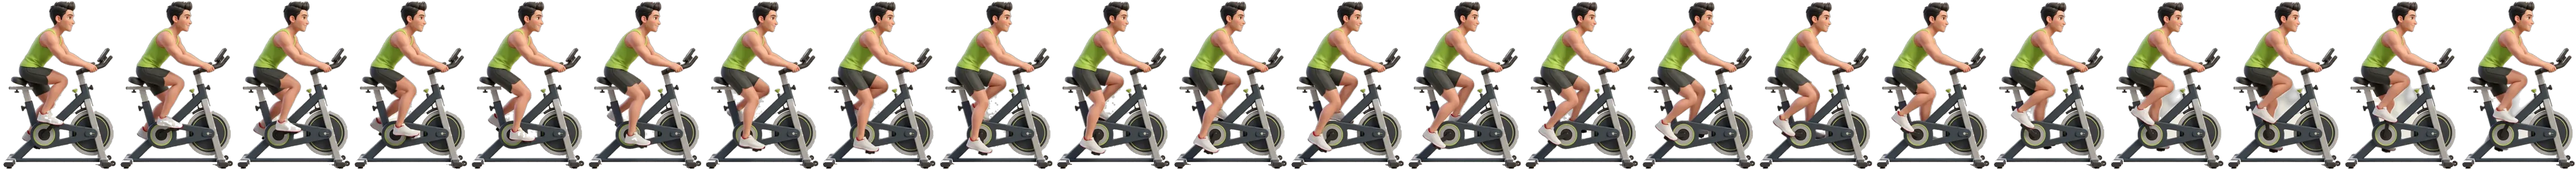
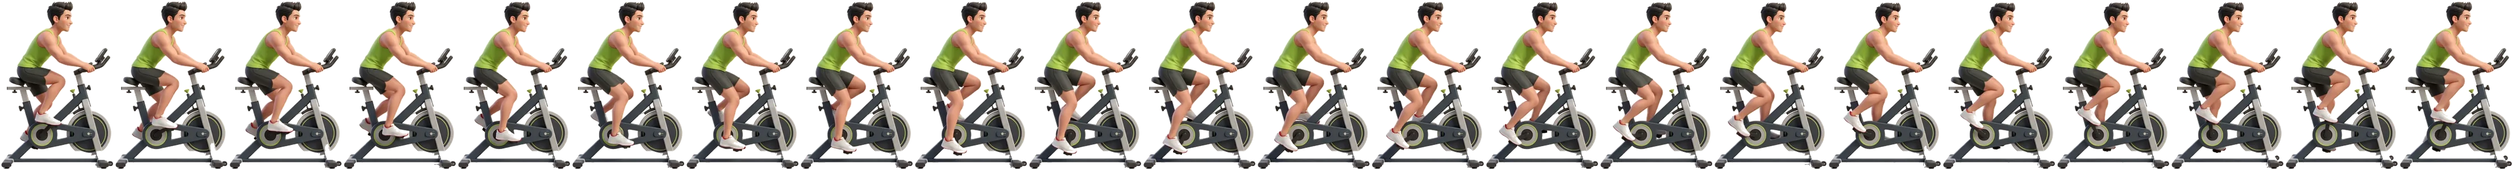
Prévia: recorte das animações com máquina refeito (tênis e partes do equipamento não somem mais, sem sombra clara no chão); corda um pouco menor (27 nov · 189)
Claude-Session: https://claude.ai/code/session_01HfZwp46Dr7mBJZgYWx7x8R

diff --git a/site/app-teste/index.html b/site/app-teste/index.html
@@ -1966,7 +1966,7 @@ const vibrate = p => { try { if(navigator.userActivation && !navigator.userActiv
 
 /* ---------- estado ---------- */
 const KEY = 'simpteste-aluno-pro-v2';
-const APPV = '27 nov · 188'; // muda a cada zip: confira no perfil se o site está com a versão nova
+const APPV = '27 nov · 189'; // muda a cada zip: confira no perfil se o site está com a versão nova
 function fresh(example){
   return { v:2, example:!!example, nome:'', ed:'hipertrofia', waterGoal:3000, cardioGoal:120, water:{}, wlog:{}, remind:{on:true,every:90},
     history:[], cardio:[], logs:{}, warm:{}, last:{}, loadHist:{}, pr:{}, checkin:{}, session:null };
@@ -5311,14 +5311,14 @@ const B3_S = {
     M:{w:220,h:300,D:20,g:297,vel:22.5,cxm:132.4,alt:172,bot:[297,297,297,296,296,296,295,289,287,291,294,295,295,295,294,294,293,287,287,294],cx:[130,131,132,131,134,136,134,132,132,132,134,136,133,136,135,133,131,128,128,128],arq:'rua-m'} } };
 /* esteira: a mesma corrida da rua, em cima da esteira parada (b3/esteira.webp, 216 px de largura na cena; a lona fica 27,6 px acima do piso e o meio dela a 97,7 px da ponta de trás) */
 /* pular corda (o "Outro" do app), de frente: a pessoa pula no lugar; só a sombra muda com a altura do pulo */
-B3_S.rope = { F:{w:161,h:300,D:24,g:297,alt:186,pulo:1,arq:'corda-f',bot:[283,281,282,285,290,297,297,297,297,297,297,289,283,282,282,284,290,297,297,297,297,297,297,289]},
-  M:{w:165,h:300,D:23,g:297,alt:192,pulo:1,arq:'corda-m',bot:[282,280,280,283,288,297,297,297,297,297,296,286,282,281,282,287,297,297,297,297,297,296,286]} };
+B3_S.rope = { F:{w:161,h:300,D:24,g:297,alt:168,pulo:1,arq:'corda-f',bot:[283,281,282,285,290,297,297,297,297,297,297,289,283,282,282,284,290,297,297,297,297,297,297,289]},
+  M:{w:165,h:300,D:23,g:297,alt:172,pulo:1,arq:'corda-m',bot:[282,280,280,283,288,297,297,297,297,297,296,286,282,281,282,287,297,297,297,297,297,296,286]} };
 /* escada: a máquina vem na folha junto com a pessoa; nada anda na cena e a sombra fica parada embaixo da máquina */
-B3_S.stair = { F:{w:227,h:300,D:32,g:297,alt:196,fixo:1,arq:'escada-f'}, M:{w:230,h:300,D:36,g:297,alt:196,fixo:1,arq:'escada-m'} };
+B3_S.stair = { F:{w:206,h:300,D:32,g:297,alt:196,fixo:1,arq:'escada-f'}, M:{w:207,h:300,D:36,g:297,alt:196,fixo:1,arq:'escada-m'} };
 /* bike: a bicicleta vem na folha junto com a pessoa, como na escada */
-B3_S.bike = { F:{w:205,h:300,D:22,g:297,alt:186,fixo:1,arq:'bike-f'}, M:{w:206,h:300,D:22,g:297,alt:186,fixo:1,arq:'bike-m'} };
+B3_S.bike = { F:{w:200,h:300,D:22,g:297,alt:186,fixo:1,arq:'bike-f'}, M:{w:201,h:300,D:22,g:297,alt:186,fixo:1,arq:'bike-m'} };
 /* elíptico: a máquina vem na folha junto com a pessoa (no vídeo da mulher a câmera deslizava de lado; o deslize foi desfeito quadro a quadro antes do recorte) */
-B3_S.ell = { F:{w:284,h:300,D:30,g:297,alt:176,fixo:1,arq:'eliptico-f'}, M:{w:283,h:300,D:36,g:297,alt:176,fixo:1,arq:'eliptico-m'} };
+B3_S.ell = { F:{w:279,h:300,D:30,g:297,alt:176,fixo:1,arq:'eliptico-f'}, M:{w:278,h:300,D:36,g:297,alt:176,fixo:1,arq:'eliptico-m'} };
 B3_S.tread = { F:Object.assign({}, B3_S.road.F, {est:1, alt:150}), M:Object.assign({}, B3_S.road.M, {est:1, alt:156}) };
 const B3_ARV = '<svg viewBox="0 0 105 96" aria-hidden="true"><rect x="20" y="52" width="5" height="44" fill="var(--b3-tronco)"/><circle cx="22" cy="40" r="19" fill="var(--b3-arv)"/><circle cx="34" cy="50" r="13" fill="var(--b3-arv)"/><circle cx="11" cy="52" r="11" fill="var(--b3-arv)"/><rect x="76" y="18" width="3.5" height="78" fill="var(--b3-poste)"/><rect x="76" y="18" width="16" height="3.5" rx="1.5" fill="var(--b3-poste)"/><rect x="88" y="20" width="8" height="5" rx="2.5" fill="var(--b3-faixa)"/></svg>';
 const B3 = { sx:'', el:null, M:null, s:1, k:1, ph:0, cx:179, raf:0, last:0, ro:null, p:null };

diff --git a/site/treino/index.html b/site/treino/index.html
@@ -1969,7 +1969,7 @@ const vibrate = p => { try { if(navigator.userActivation && !navigator.userActiv
 
 /* ---------- estado ---------- */
 const KEY = 'simplificando-pro-v2';
-const APPV = '27 nov · 188'; // muda a cada zip: confira no perfil se o site está com a versão nova
+const APPV = '27 nov · 189'; // muda a cada zip: confira no perfil se o site está com a versão nova
 function fresh(example){
   return { v:2, example:!!example, nome:'', ed:'hipertrofia', waterGoal:3000, cardioGoal:120, water:{}, wlog:{}, remind:{on:true,every:90},
     history:[], cardio:[], logs:{}, warm:{}, last:{}, loadHist:{}, pr:{}, checkin:{}, session:null };
@@ -5313,14 +5313,14 @@ const B3_S = {
     M:{w:220,h:300,D:20,g:297,vel:22.5,cxm:132.4,alt:172,bot:[297,297,297,296,296,296,295,289,287,291,294,295,295,295,294,294,293,287,287,294],cx:[130,131,132,131,134,136,134,132,132,132,134,136,133,136,135,133,131,128,128,128],arq:'rua-m'} } };
 /* esteira: a mesma corrida da rua, em cima da esteira parada (b3/esteira.webp, 216 px de largura na cena; a lona fica 27,6 px acima do piso e o meio dela a 97,7 px da ponta de trás) */
 /* pular corda (o "Outro" do app), de frente: a pessoa pula no lugar; só a sombra muda com a altura do pulo */
-B3_S.rope = { F:{w:161,h:300,D:24,g:297,alt:186,pulo:1,arq:'corda-f',bot:[283,281,282,285,290,297,297,297,297,297,297,289,283,282,282,284,290,297,297,297,297,297,297,289]},
-  M:{w:165,h:300,D:23,g:297,alt:192,pulo:1,arq:'corda-m',bot:[282,280,280,283,288,297,297,297,297,297,296,286,282,281,282,287,297,297,297,297,297,296,286]} };
+B3_S.rope = { F:{w:161,h:300,D:24,g:297,alt:168,pulo:1,arq:'corda-f',bot:[283,281,282,285,290,297,297,297,297,297,297,289,283,282,282,284,290,297,297,297,297,297,297,289]},
+  M:{w:165,h:300,D:23,g:297,alt:172,pulo:1,arq:'corda-m',bot:[282,280,280,283,288,297,297,297,297,297,296,286,282,281,282,287,297,297,297,297,297,296,286]} };
 /* escada: a máquina vem na folha junto com a pessoa; nada anda na cena e a sombra fica parada embaixo da máquina */
-B3_S.stair = { F:{w:227,h:300,D:32,g:297,alt:196,fixo:1,arq:'escada-f'}, M:{w:230,h:300,D:36,g:297,alt:196,fixo:1,arq:'escada-m'} };
+B3_S.stair = { F:{w:206,h:300,D:32,g:297,alt:196,fixo:1,arq:'escada-f'}, M:{w:207,h:300,D:36,g:297,alt:196,fixo:1,arq:'escada-m'} };
 /* bike: a bicicleta vem na folha junto com a pessoa, como na escada */
-B3_S.bike = { F:{w:205,h:300,D:22,g:297,alt:186,fixo:1,arq:'bike-f'}, M:{w:206,h:300,D:22,g:297,alt:186,fixo:1,arq:'bike-m'} };
+B3_S.bike = { F:{w:200,h:300,D:22,g:297,alt:186,fixo:1,arq:'bike-f'}, M:{w:201,h:300,D:22,g:297,alt:186,fixo:1,arq:'bike-m'} };
 /* elíptico: a máquina vem na folha junto com a pessoa (no vídeo da mulher a câmera deslizava de lado; o deslize foi desfeito quadro a quadro antes do recorte) */
-B3_S.ell = { F:{w:284,h:300,D:30,g:297,alt:176,fixo:1,arq:'eliptico-f'}, M:{w:283,h:300,D:36,g:297,alt:176,fixo:1,arq:'eliptico-m'} };
+B3_S.ell = { F:{w:279,h:300,D:30,g:297,alt:176,fixo:1,arq:'eliptico-f'}, M:{w:278,h:300,D:36,g:297,alt:176,fixo:1,arq:'eliptico-m'} };
 B3_S.tread = { F:Object.assign({}, B3_S.road.F, {est:1, alt:150}), M:Object.assign({}, B3_S.road.M, {est:1, alt:156}) };
 const B3_ARV = '<svg viewBox="0 0 105 96" aria-hidden="true"><rect x="20" y="52" width="5" height="44" fill="var(--b3-tronco)"/><circle cx="22" cy="40" r="19" fill="var(--b3-arv)"/><circle cx="34" cy="50" r="13" fill="var(--b3-arv)"/><circle cx="11" cy="52" r="11" fill="var(--b3-arv)"/><rect x="76" y="18" width="3.5" height="78" fill="var(--b3-poste)"/><rect x="76" y="18" width="16" height="3.5" rx="1.5" fill="var(--b3-poste)"/><rect x="88" y="20" width="8" height="5" rx="2.5" fill="var(--b3-faixa)"/></svg>';
 const B3 = { sx:'', el:null, M:null, s:1, k:1, ph:0, cx:179, raf:0, last:0, ro:null, p:null };

diff --git a/src/app/12-cardio-boneco.js b/src/app/12-cardio-boneco.js
@@ -277,14 +277,14 @@ const B3_S = {
     M:{w:220,h:300,D:20,g:297,vel:22.5,cxm:132.4,alt:172,bot:[297,297,297,296,296,296,295,289,287,291,294,295,295,295,294,294,293,287,287,294],cx:[130,131,132,131,134,136,134,132,132,132,134,136,133,136,135,133,131,128,128,128],arq:'rua-m'} } };
 /* esteira: a mesma corrida da rua, em cima da esteira parada (b3/esteira.webp, 216 px de largura na cena; a lona fica 27,6 px acima do piso e o meio dela a 97,7 px da ponta de trás) */
 /* pular corda (o "Outro" do app), de frente: a pessoa pula no lugar; só a sombra muda com a altura do pulo */
-B3_S.rope = { F:{w:161,h:300,D:24,g:297,alt:186,pulo:1,arq:'corda-f',bot:[283,281,282,285,290,297,297,297,297,297,297,289,283,282,282,284,290,297,297,297,297,297,297,289]},
-  M:{w:165,h:300,D:23,g:297,alt:192,pulo:1,arq:'corda-m',bot:[282,280,280,283,288,297,297,297,297,297,296,286,282,281,282,287,297,297,297,297,297,296,286]} };
+B3_S.rope = { F:{w:161,h:300,D:24,g:297,alt:168,pulo:1,arq:'corda-f',bot:[283,281,282,285,290,297,297,297,297,297,297,289,283,282,282,284,290,297,297,297,297,297,297,289]},
+  M:{w:165,h:300,D:23,g:297,alt:172,pulo:1,arq:'corda-m',bot:[282,280,280,283,288,297,297,297,297,297,296,286,282,281,282,287,297,297,297,297,297,296,286]} };
 /* escada: a máquina vem na folha junto com a pessoa; nada anda na cena e a sombra fica parada embaixo da máquina */
-B3_S.stair = { F:{w:227,h:300,D:32,g:297,alt:196,fixo:1,arq:'escada-f'}, M:{w:230,h:300,D:36,g:297,alt:196,fixo:1,arq:'escada-m'} };
+B3_S.stair = { F:{w:206,h:300,D:32,g:297,alt:196,fixo:1,arq:'escada-f'}, M:{w:207,h:300,D:36,g:297,alt:196,fixo:1,arq:'escada-m'} };
 /* bike: a bicicleta vem na folha junto com a pessoa, como na escada */
-B3_S.bike = { F:{w:205,h:300,D:22,g:297,alt:186,fixo:1,arq:'bike-f'}, M:{w:206,h:300,D:22,g:297,alt:186,fixo:1,arq:'bike-m'} };
+B3_S.bike = { F:{w:200,h:300,D:22,g:297,alt:186,fixo:1,arq:'bike-f'}, M:{w:201,h:300,D:22,g:297,alt:186,fixo:1,arq:'bike-m'} };
 /* elíptico: a máquina vem na folha junto com a pessoa (no vídeo da mulher a câmera deslizava de lado; o deslize foi desfeito quadro a quadro antes do recorte) */
-B3_S.ell = { F:{w:284,h:300,D:30,g:297,alt:176,fixo:1,arq:'eliptico-f'}, M:{w:283,h:300,D:36,g:297,alt:176,fixo:1,arq:'eliptico-m'} };
+B3_S.ell = { F:{w:279,h:300,D:30,g:297,alt:176,fixo:1,arq:'eliptico-f'}, M:{w:278,h:300,D:36,g:297,alt:176,fixo:1,arq:'eliptico-m'} };
 B3_S.tread = { F:Object.assign({}, B3_S.road.F, {est:1, alt:150}), M:Object.assign({}, B3_S.road.M, {est:1, alt:156}) };
 const B3_ARV = '<svg viewBox="0 0 105 96" aria-hidden="true"><rect x="20" y="52" width="5" height="44" fill="var(--b3-tronco)"/><circle cx="22" cy="40" r="19" fill="var(--b3-arv)"/><circle cx="34" cy="50" r="13" fill="var(--b3-arv)"/><circle cx="11" cy="52" r="11" fill="var(--b3-arv)"/><rect x="76" y="18" width="3.5" height="78" fill="var(--b3-poste)"/><rect x="76" y="18" width="16" height="3.5" rx="1.5" fill="var(--b3-poste)"/><rect x="88" y="20" width="8" height="5" rx="2.5" fill="var(--b3-faixa)"/></svg>';
 const B3 = { sx:'', el:null, M:null, s:1, k:1, ph:0, cx:179, raf:0, last:0, ro:null, p:null };

diff --git a/site/treino/sw.js b/site/treino/sw.js
@@ -2,7 +2,7 @@
    - A página: tenta a internet primeiro (pega a versão nova); se a internet falhar ou demorar, abre a cópia guardada.
    - Arquivos fixos (Firebase, ícones, fontes): usa a cópia guardada e atualiza por trás.
    - Banco de dados, login e e-mails não passam por aqui: o próprio Firebase cuida de reenviar quando o sinal volta. */
-const VERSAO = '27 nov · 188'; // muda a cada versão (o build grava): assim o celular sempre percebe que tem sw.js novo
+const VERSAO = '27 nov · 189'; // muda a cada versão (o build grava): assim o celular sempre percebe que tem sw.js novo
 const CACHE = 'simp-treino-v4';
 let ATUALIZANDO = false; // true quando já tinha uma versão instalada (atualização, não primeira vez)
 const CORE = ['./', './manifest.webmanifest', './icon-192.png', './icon-512.png', './icon-180.png', './firebase-config.js',

diff --git a/src/app/01-base.js b/src/app/01-base.js
@@ -77,7 +77,7 @@ const vibrate = p => { try { if(navigator.userActivation && !navigator.userActiv
 
 /* ---------- estado ---------- */
 const KEY = 'simplificando-pro-v2';
-const APPV = '27 nov · 188'; // muda a cada zip: confira no perfil se o site está com a versão nova
+const APPV = '27 nov · 189'; // muda a cada zip: confira no perfil se o site está com a versão nova
 function fresh(example){
   return { v:2, example:!!example, nome:'', ed:'hipertrofia', waterGoal:3000, cardioGoal:120, water:{}, wlog:{}, remind:{on:true,every:90},
     history:[], cardio:[], logs:{}, warm:{}, last:{}, loadHist:{}, pr:{}, checkin:{}, session:null };

diff --git a/produto/painel-personal-teste.html b/produto/painel-personal-teste.html
@@ -3943,7 +3943,7 @@ function ctCard(a){
 /* ---------- Perfis: todas as contas do app, com e sem personal ---------- */
 const DONO_NOME = 'Eduardo Matias Marques';
 /* ---------- atualizar o site com um toque (site/atualizar.php baixa a versão nova do GitHub) ---------- */
-const PAINELV = '27 nov · 188'; // Versão do painel: 27 nov · 188
+const PAINELV = '27 nov · 189'; // Versão do painel: 27 nov · 189
 const ATU = { st:'', nova:'', msg:'' };
 function atuCheck(){
   if(ATU.st) return; ATU.st = 'vendo';

diff --git a/site/hub/index.html b/site/hub/index.html
@@ -3834,7 +3834,7 @@ function ctCard(a){
 /* ---------- Perfis: todas as contas do app, com e sem personal ---------- */
 const DONO_NOME = 'Eduardo Matias Marques';
 /* ---------- atualizar o site com um toque (site/atualizar.php baixa a versão nova do GitHub) ---------- */
-const PAINELV = '27 nov · 188'; // Versão do painel: 27 nov · 188
+const PAINELV = '27 nov · 189'; // Versão do painel: 27 nov · 189
 const ATU = { st:'', nova:'', msg:'' };
 function atuCheck(){
   if(ATU.st) return; ATU.st = 'vendo';

diff --git a/site/personal/index.html b/site/personal/index.html
@@ -3833,7 +3833,7 @@ function ctCard(a){
 /* ---------- Perfis: todas as contas do app, com e sem personal ---------- */
 const DONO_NOME = 'Eduardo Matias Marques';
 /* ---------- atualizar o site com um toque (site/atualizar.php baixa a versão nova do GitHub) ---------- */
-const PAINELV = '27 nov · 188'; // Versão do painel: 27 nov · 188
+const PAINELV = '27 nov · 189'; // Versão do painel: 27 nov · 189
 const ATU = { st:'', nova:'', msg:'' };
 function atuCheck(){
   if(ATU.st) return; ATU.st = 'vendo';

diff --git a/site/personal/teste/index.html b/site/personal/teste/index.html
@@ -3947,7 +3947,7 @@ function ctCard(a){
 /* ---------- Perfis: todas as contas do app, com e sem personal ---------- */
 const DONO_NOME = 'Eduardo Matias Marques';
 /* ---------- atualizar o site com um toque (site/atualizar.php baixa a versão nova do GitHub) ---------- */
-const PAINELV = '27 nov · 188'; // Versão do painel: 27 nov · 188
+const PAINELV = '27 nov · 189'; // Versão do painel: 27 nov · 189
 const ATU = { st:'', nova:'', msg:'' };
 function atuCheck(){
   if(ATU.st) return; ATU.st = 'vendo';

diff --git a/src/admin.html b/src/admin.html
@@ -3803,7 +3803,7 @@ function ctCard(a){
 /* ---------- Perfis: todas as contas do app, com e sem personal ---------- */
 const DONO_NOME = 'Eduardo Matias Marques';
 /* ---------- atualizar o site com um toque (site/atualizar.php baixa a versão nova do GitHub) ---------- */
-const PAINELV = '27 nov · 188'; // Versão do painel: 27 nov · 188
+const PAINELV = '27 nov · 189'; // Versão do painel: 27 nov · 189
 const ATU = { st:'', nova:'', msg:'' };
 function atuCheck(){
   if(ATU.st) return; ATU.st = 'vendo';
